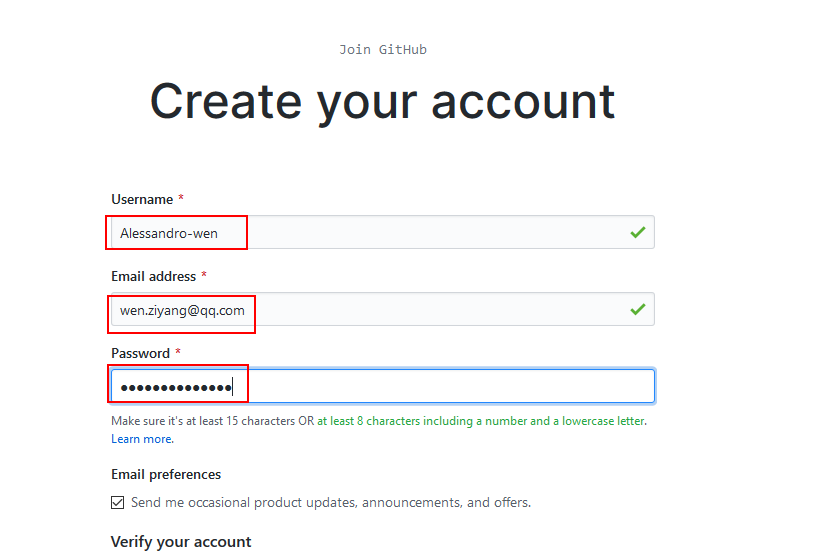
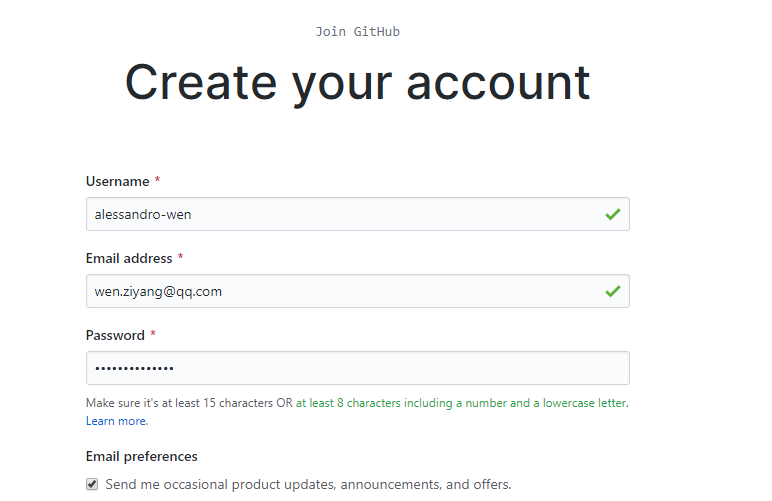
2020-1-13提交
完成Git Hub Desktop 安装教程写作

diff --git a/_posts/2020-01-10-GitHubDesktop安装教程.md b/_posts/2020-01-10-GitHubDesktop安装教程.md
@@ -16,15 +16,164 @@ tag: Git
 <h3>Git Hub 使用教程</h3>
 &#8195;在安装Git Hub前，我们还需要先注册一个账号，并且会简单的创建仓库，查看仓库这一类的操作；
 
-&#8195;打开[Git Hub](https://github.com/join?source=header-home)点击注册账号，
+&#8195;如果你还没有Git Hub 账号，需要先注册一个账号；
+
+	**Git  Hub 账号注册：**
+
+> 1、打开[Git Hub](https://github.com/join?source=header-home)点击注册账号
+>
+> 2、按照提示依次输入用户名，邮箱，密码 <span style="color:rgb(255,50,100)">(注：邮箱很重要！)</span>
+>
+> <img src="../images/posts/2020-1-10-GitCourse/c-step1.png" alt="blog_image" />
+>
+> 3、验证活体身份、核实用户账户，验证成功后，点击 Next Select a plan
+>
+> <img src="../images/posts/2020-1-10-GitCourse/c-step2.png" alt="blog_image" />
+>
+> 4、选择个人版、还是专业版 
+>
+> 额，一般对于新手来讲免费版就绰绰有余了，所以这里直接选择 Chooes Free即可，
+>
+> 当然了，如果你有一个Team在做开发，那么7美元一个月也算不上很贵了！
+>
+> <img src="../images/posts/2020-1-10-GitCourse/c-step3.png" alt="blog_image" />
+>
+> | 个人免费版                                                   | 团队专业版   （7美元 / 月）                                  |
+> | :----------------------------------------------------------- | ------------------------------------------------------------ |
+> | 无限的公共仓库<br/>无限的私人仓库<br/>仅限3个合作者（用于私人存储库）<br/>每月总计2,000分钟的行动<br/>500MB的GitHub软件包存储<br/>公共存储库的高级漏洞扫描<br/>自动化安全更新<br/>GitHub安全公告<br/>问题和错误跟踪<br/>项目管理 | 包含所有免费内容<br/>无限合作者<br/>每月总计3,000分钟的行动<br/>1GB的GitHub软件包存储<br/>私有GitHub页面和Wiki<br/>私人受保护的分支机构<br/>代码所有者<br/>仓库见解 |
+>
+> 5、选择你的开发经验
+>
+> <img src="../images/posts/2020-1-10-GitCourse/c-step4.png" alt="blog_image" />
+>
+> | None               | A little                       |
+> | ------------------ | ------------------------------ |
+> | 从来没有过编程经验 | 有一点，是一个新入门的编程新手 |
+> | **A moderate amount **             |  **A lot**          |
+> |从事过开发，有一些经验的开发者 | 有很多开发经验 |
+>
+> 6、您打算将GitHub用于什么？（最多选择3个）
+>
+> 关于这个，如果你从没接触过Git 一类的东西，我们直接选择第一行的三个即可
+>
+> 如果你有一些编程经验，或者确实报着其他目的，按照想法点选即可，Git Hub会相应的给出一些帮助信息；
+>
+> <img src="../images/posts/2020-1-10-GitCourse/c-step5.png" alt="blog_image" />
+>
+> | 学习代码                         | 学习Git和GitHub    | 托管项目（存储库）         |
+> | -------------------------------- | ------------------ | -------------------------- |
+> | **使用GitHub Pages创建一个网站** | **与我的团队合作** | **寻找开源并为此做出贡献** |
+> | **学校作业和学生项目**           | **使用GitHub API** | **其他**                   |
+>
+> 7、填写感兴趣的信息，如语言，框架，行业等，当然了，你不知道什么语言、框架也可以不填写；
+>
+> 8、最后点击 Complete setup，完成设置；
+>
+> <img src="../images/posts/2020-1-10-GitCourse/c-step6.png" alt="blog_image" />
+>
+> 9、这时Git Hub会给你发送一个邮件，用于确认用户，你只要按照提示登录一次即可！
+>
+> 10、如果你没有确认邮箱中的邮件，你会看到这样一个提示
+>
+> <img src="../images/posts/2020-1-10-GitCourse/c-step7.png" alt="blog_image" />
+
+	**Git Hub 创建仓库**
+
+> 这时你回到首页，中间会有一个大大的标志
+>
+> 绿色的按钮是阅读指南，我用红色圈起来的按钮是创建一个仓库；
+>
+> 我们直接点击 Start a project 创建一个仓库
+>
+> <img src="../images/posts/2020-1-10-GitCourse/c-step8.png" alt="blog_image" />
+>
+> 按照提示，填写项目名，备注，创建Readme文件等；
+>
+> 填写完成后，点击Create repository,创建仓库；
+>
+> <img src="../images/posts/2020-1-10-GitCourse/c-step9.png" alt="blog_image" />
+>
+> 到此，我们已经成功地创建了一个项目仓库
+>
+> <img src="../images/posts/2020-1-10-GitCourse/c-step10.png" alt="blog_image" />
 
 <h3>Git Hub Desktop安装与使用</h3>
 &#8195;首先到官网下载 [Git Hub Desktop](https://desktop.github.com/) ,不过现在貌似被墙了！？
 
 &#8195;Git Hub Desktop 是免安装步骤的，当你双击之后就能直接使用了；
 
-&#8195;1、双击打开后，点击Sign into GitHub.com
+&#8195;1、双击打开后，点击Sign into GitHub.com，登录Git Hub;
 
 <img src="../images/posts/2020-1-10-GitCourse/step1.png" alt="blog_image" />
 
-&#8195;
+&#8195;2、输入我们之前创建好的Git Hub 邮箱和密码,点击Sign in
+
+<img src="../images/posts/2020-1-10-GitCourse/step2.png" alt="blog_image" />
+
+&#8195;3、点击Finish 完成登录；
+
+<img src="../images/posts/2020-1-10-GitCourse/step3.png" alt="blog_image" />
+
+&#8195;4、登陆成功后，会提示你创建本地仓库，这里有三个选项：
+
+| 创建一个新的项目到Git Hub | 添加本地仓库到Git Hub       | 从Git Hub上克隆一个项目到本地 |
+| ------------------------- | --------------------------- | ----------------------------- |
+| 适用于新建项目            | 适用于本地、Git Hub已有项目 | 适用于Git Hub有仓库，本地没有 |
+
+&#8195;因为我们之前在Git Hub上创建了项目，所以这里选择克隆到本地
+
+<img src="../images/posts/2020-1-10-GitCourse/step4.png" alt="blog_image" />
+
+&#8195;点击之后，选择你在Git Hub上创建的项目
+
+&#8195;在Local path 中选择你的保存路径，确保你自己能找到！！
+
+<img src="../images/posts/2020-1-10-GitCourse/step5.png" alt="blog_image" />
+
+&#8195;5、打开页面后，会显示一片空白，不要慌，这是正常的！
+
+<img src="../images/posts/2020-1-10-GitCourse/step6.png" alt="blog_image" />
+
+&#8195;6、我们找到之前的克隆项目，然后新建一个文件夹test，在文件夹下创建一个test.txt的文件；
+
+&#8195;打开test.txt文件，我们在里面随便写一句话 “test git hub desktop”，并保存;
+
+&#8195;这时再打开Git Hub Desktop就看到了变化;
+
+<img src="../images/posts/2020-1-10-GitCourse/step7.png" alt="blog_image" />
+
+&#8195;7、我们再次打开 test.txt文件，删除之前写的那句话，重新写入几句话；
+
+&#8195;保存文本，打开Desktop,就能看到新的变化；
+
+<img src="../images/posts/2020-1-10-GitCourse/step8.png" alt="blog_image" />
+
+&#8195;8、我们现在提交一次代码；
+
+&#8195;注意，我们应该先填写注释后点击 commit to master
+
+&#8195;如果你直接点击了Fetch origin，一般有两种可能，没有反应和爆出错误；
+
+&#8195;我们提交完毕后，页面又会回到最初的样子，我们再点击Fetch origin，静静的等待上传即可！
+
+<img src="../images/posts/2020-1-10-GitCourse/step9.png" alt="blog_image" />
+
+&#8195;9、我们现在再修改一次test.txt文件，这次删除一句话；
+
+&#8195;你会发现这次的改变与之前的不同；
+
+&#8195;当代码背景色为红色时，代表删除的代码；
+
+&#8195;当代码背景色为绿色时，代表新增的代码；
+
+&#8195;当然，他们前面也会有一个 `-` 和 一个 `+` 区别新增的代码和删除的代码；
+
+<img src="../images/posts/2020-1-10-GitCourse/step10.png" alt="blog_image" />
+
+&#8195;10、我们按照上述流程再次提交一次代码
+
+&#8195;点击History,我们可以看历史提交的信息，和改动的变化；
+
+<img src="../images/posts/2020-1-10-GitCourse/step11.png" alt="blog_image" />
+
+转载请注明：[庞超越的博客](http://www.alexpang.cn) » [点击阅读原文](https://www.alexpang.cn/2020/01/%E8%BF%9B%E5%88%B6%E8%BD%AC%E6%8D%A2/) 
